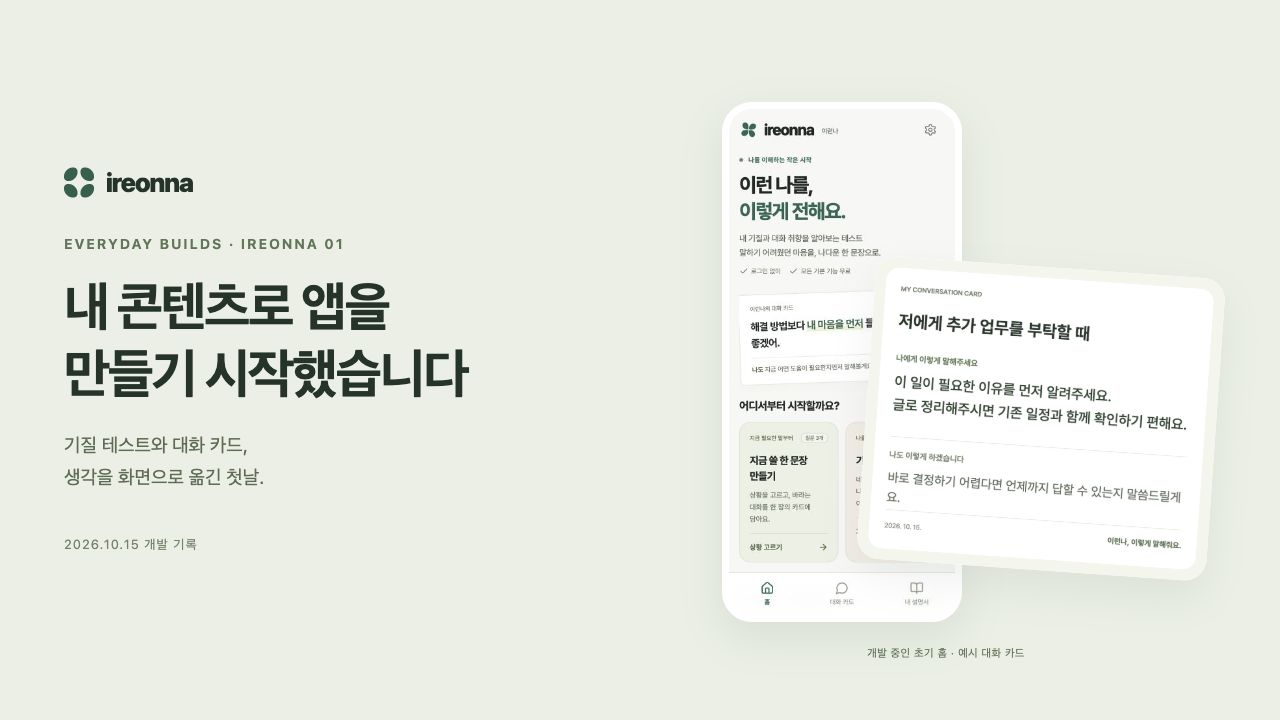
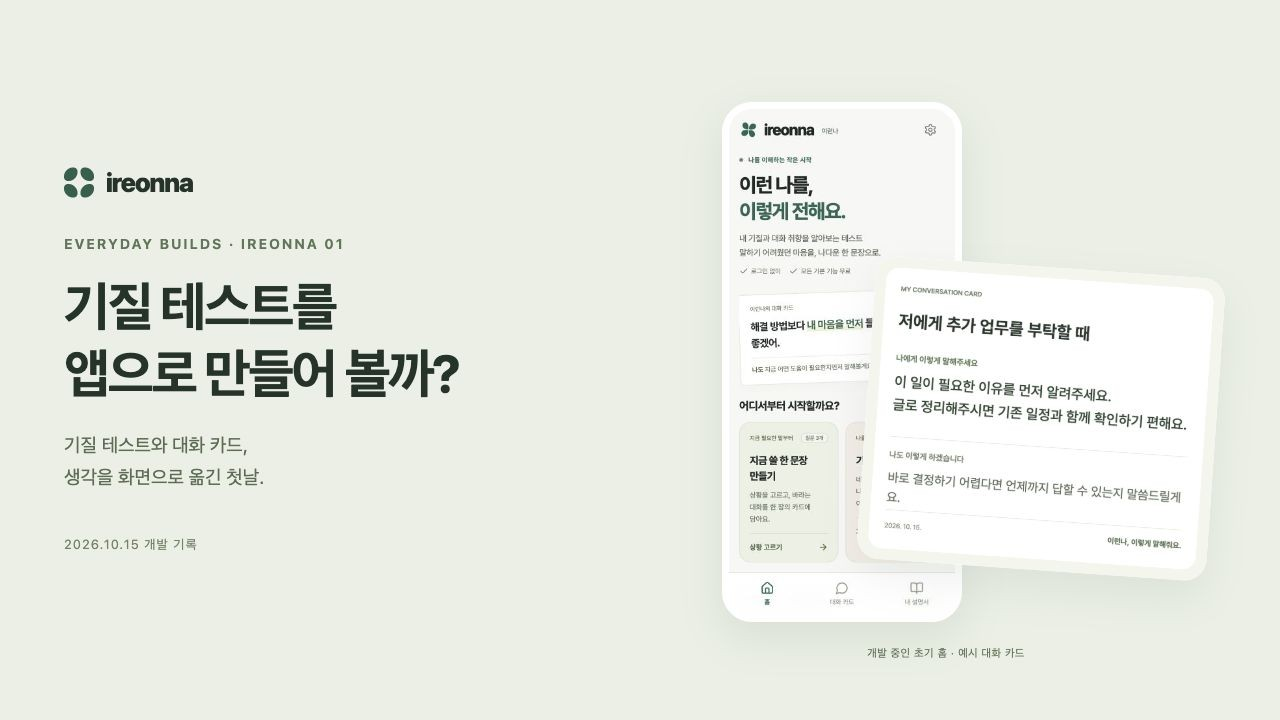
Refine Ireonna diary narrative and conversational tone

Changed region(s): [[0.0312, 0.4889, 0.375, 0.55], [0.0312, 0.3972, 0.3125, 0.4583]]

diff --git a/lib/posts.ts b/lib/posts.ts
@@ -87,17 +87,17 @@ export const posts: Post[] = [{
     en: { src: "/images/ireonna-build-log/en/03-cover.jpg", width: 1280, height: 720, alt: "English reading copies of Ireonna’s early Korean home screen and example conversation card" },
   },
   ko: {
-    title: "이런나 개발기 01: 내 콘텐츠로 앱을 만들기 시작했습니다",
+    title: "이런나 개발기 01: AI와 기질 테스트 앱을 만들기 시작했습니다",
     seoTitle: "앱인토스 개발기: Codex로 시작한 기질 테스트 앱 이런나",
-    excerpt: "이번에는 가지고 있던 기질 테스트와 강의 자료를 앱으로 옮겨 보기로 했습니다. Codex에 기획 문서를 건네고, 나온 화면을 눌러 보며 설명과 문장을 다시 살펴본 이런나 개발기 첫 편입니다.",
-    summary: "기질 테스트와 강의 자료를 Codex에 건넸습니다. 초기 화면을 눌러 보며, 제가 붙인 기질 이름과 대화 문장도 다시 읽었습니다.",
+    excerpt: "앱인토스가 뭔지 몰라 AI에게 물어봤습니다. 가이드 링크를 보내고 뭘 만들면 좋을지 의논하다가, 기질 테스트 앱의 첫 화면까지 만들었습니다.",
+    summary: "앱인토스가 뭔지도 몰랐습니다. AI에게 가이드 링크를 보내고 뭘 만들면 좋을지 물어보다가, 기질 테스트 앱을 만들기 시작했습니다.",
     category: "앱 개발",
   },
   en: {
-    title: "Ireonna build diary 01: turning my own content into an app",
+    title: "Ireonna build diary 01: starting a temperament test app with AI",
     seoTitle: "Building an app for Apps in Toss with Codex: Ireonna 01",
-    excerpt: "This time, I used my existing temperament test and class materials to plan an app for Apps in Toss. Here’s what happened when I gave Codex the plan, tried the screens, and read my own wording again.",
-    summary: "I gave Codex a plan based on my own materials, then tried the screens it made. I ended up revisiting my own wording, too.",
+    excerpt: "I didn’t know what Apps in Toss was, so I asked AI. I sent it the guide, talked through what I could make, and ended up trying the first screens of a temperament test app.",
+    summary: "I didn’t even know what Apps in Toss was. I sent AI the guide, asked what I could make, and started building a temperament test app.",
     category: "Building an app",
   },
 }];

diff --git a/content/posts/ireonna-build-log/ko.md b/content/posts/ireonna-build-log/ko.md
@@ -1,67 +1,77 @@
-# 이런나 개발기 01: 내 콘텐츠로 앱을 만들기 시작했습니다
+# 이런나 개발기 01: AI와 기질 테스트 앱을 만들기 시작했습니다
 
 **개발일 2026.10.15 · 기록일 2026.10.16**
 
-“내 콘텐츠로 토스 안에서 쓰는 앱을 만들어볼까?”
+처음엔 앱인토스가 뭔지도 몰랐습니다. 그래서 AI에게 물어봤습니다.
 
-앞의 [카페 교육 게임](/ko/builds/cafe-first-day)과 [물건 찾기 지도](/ko/builds/where-was-it)는 HTML 파일 하나로 실행하는 도구였습니다. 이번에는 제가 가지고 있던 기질 테스트와 강의 자료를 앱으로 옮겨 보기로 했습니다.
+앞에서는 [카페 교육 게임](/ko/builds/cafe-first-day)과 [물건 찾기 지도](/ko/builds/where-was-it)를 HTML 파일로 만들어 봤죠. 이번에는 다른 사람들도 써 볼 수 있게 올려 보고 싶었습니다. 제가 만든 걸로 돈도 벌어 볼 수 있을까 궁금했고요.
 
-토스 안에서 서비스를 선보일 수 있는 앱인토스를 알아봤고, 만들 앱의 이름은 ‘**이런나**’로 정했습니다. 이번에는 만들 내용을 기획 문서로 정리해서 AI에게 건넸습니다. [앱인토스 공식 개발 문서](https://developers-apps-in-toss.toss.im/)
+무엇을 만들지는 아직 정하지 않았습니다. 어디에 올릴 수 있는지, 거기서 제가 뭘 해 볼 수 있는지부터 AI와 알아보기로 했습니다.
 
-## 가지고 있던 자료부터 꺼냈습니다
+## 우선, 앱인토스가 뭔지부터 물어봤습니다
 
-꺼낸 자료는 전에 만들었던 기질 테스트(MyEnergyType)와 자기이해 강의 자료입니다. 어떤 상황에서 힘이 나는지, 다른 사람과 이야기할 때 무엇을 편하게 느끼는지 살펴보는 내용입니다.
+알아보니 [앱인토스](https://toss.im/apps-in-toss)를 이용하면 제가 만든 앱을 토스 안에 올려 다른 사람들이 써 보게 할 수 있더군요.
 
-결과를 읽고 “아, 내가 이렇구나” 하는 데서 한 걸음 더 가 보고 싶었습니다. 알게 된 내용을 실제로 말할 때도 써 볼 수 있으면 좋겠더군요.
+앱에 [유료 기능을 넣거나](https://developers-apps-in-toss.toss.im/guide/monetization/in-app-payment), [광고를 붙이는](https://developers-apps-in-toss.toss.im/guide/monetization/in-app-ad) 방법도 안내돼 있었습니다. 직접 만든 걸로 돈을 벌어 볼 방법도 있구나 싶었습니다.
 
-예를 들면 추가 업무를 부탁받은 상황입니다. 지금 맡은 일도 있는데 새 부탁이 들어왔습니다. “언제까지 필요한지 알려주시면 지금 일정과 함께 확인할게요” 같은 말을 내 상황에 맞게 정리해 볼 수 있도록요.
+[만드는 방법을 설명한 가이드](https://developers-apps-in-toss.toss.im/)도 찾았습니다. 링크를 AI에게 보내 읽어 보게 하고, 제가 시작해 볼 만한 앱을 추천해 달라고 했습니다. 그때 물어본 내용을 짧게 정리하면 이렇습니다.
 
-그래서 기질 테스트에 **나에게 필요한 말을 문장으로 적어 보는 대화 카드**를 붙이기로 했습니다. 마음속에서는 제법 길게 설명했는데 입 밖으로는 “아, 네…”만 나오는 순간을 떠올렸습니다.
+> 이 앱인토스 개발 가이드를 읽고, 여기서 어떤 앱을 만들 수 있는지 알려줘. 내가 작게 시작해 볼 만한 아이디어도 추천해줘.
 
-## 이번에는 기획 문서를 먼저 건넸습니다
+AI가 제안한 것들을 보다가 **기질 테스트**로 앱을 만들어 보기로 했습니다. 원래 사람마다 성향이 어떻게 다른지 알아보는 데 관심이 있었거든요. 이름은 ‘**이런나**’로 정했습니다.
 
-2026년 10월 15일, 만들 내용을 기획 문서(PRD)에 정리했습니다. 첫 화면에서 무엇을 고르고, 질문에 답하면 무엇이 나오는지 적었습니다. 가지고 있던 자료를 화면에서 어떻게 쓰고 싶은지부터 정리한 겁니다.
+테스트 결과를 보고 “아, 내가 이렇구나” 하고 끝나면 조금 아쉬울 것 같았습니다. 알게 된 걸 대화할 때도 써 볼 수 있으면 좋겠더군요.
 
-그 문서를 Codex라는 AI에 주고 개발을 부탁했습니다. 요청을 짧게 정리하면 이렇습니다.
+예를 들어, 하던 일도 많은데 추가 업무를 부탁받았을 때입니다. “언제까지 필요한지 알려주시면 지금 일정과 함께 확인할게요”처럼, 내가 할 말을 미리 적어 볼 수 있도록요.
+
+그래서 테스트에 **대화 카드**를 붙이기로 했습니다. 마음속에서는 제법 길게 설명했는데, 입 밖으로는 “아, 네…”만 나오는 순간을 떠올렸습니다.
+
+## 만들고 싶은 걸 적어서 AI에게 건넸습니다
+
+2026년 10월 15일, 만들고 싶은 앱의 모습을 글로 정리했습니다. 첫 화면에서는 뭘 누르게 할지, 질문에 답하면 어떤 결과가 나올지 적었습니다. 테스트를 하고 결과를 읽거나, 바로 쓸 말을 한 문장으로 만들어 볼 수 있게 하고 싶었습니다.
+
+그 글을 Codex라는 AI에게 주고 개발을 부탁했습니다. 요청을 짧게 정리하면 이렇습니다.
 
 > 이 기획 문서에 맞춰 앱인토스에 들어갈 앱을 만들어주세요.
 
-첫 화면에는 시작하는 방법을 두 가지로 뒀습니다. ‘**기질부터 알아보기**’를 누르면 40문항의 테스트로 들어갑니다. ‘**지금 쓸 한 문장 만들기**’에서는 상황을 고르고 대화 카드를 만듭니다.
+첫 화면에는 ‘**기질부터 알아보기**’와 ‘**지금 쓸 한 문장 만들기**’를 나란히 뒀습니다. 하나는 40문항의 테스트로, 다른 하나는 상황을 골라 대화 카드를 만드는 화면으로 이어집니다.
 
-저는 문장만 필요한 사람은 검사 없이 시작할 수 있게 했습니다. 부탁 하나 꺼내려고 들어왔는데, 입구에서 40문제부터 풀면 조금 난감하니까요.
+문장만 필요한 사람은 테스트를 건너뛸 수 있게 했습니다. 부탁 하나 꺼내려고 들어왔는데, 입구에서 40문제부터 풀면 조금 난감하니까요.
 
 ![2026년 10월 15일 초기 홈 화면. 예시 대화 카드 아래에 문장 만들기와 기질 알아보기 두 경로가 있다.](/images/ireonna-build-log/2026-10-15_01_home-initial.jpg)
 
 *2026.10.15 캡처 · 초기 홈 화면. “지금 쓸 한 문장 만들기”와 “기질부터 알아보기”를 나란히 배치했다.*
 
-화면이 만들어진 뒤에는 이렇게 부탁했습니다.
+이번엔 직접 눌러 보기 위해 이렇게 부탁했습니다.
 
 > 앱을 직접 확인할 수 있게 실행해서 브라우저로 열어줘요.
 
-시작 버튼을 찾고, 질문에 답하고, 다음 화면으로 넘어가 봤습니다. 문서로 읽을 때는 만들 기능을 생각했다면, 직접 눌러 볼 때는 지금 뭘 누르면 되는지와 화면에 나온 말이 이해되는지가 눈에 들어왔습니다.
+시작 버튼을 누르고, 질문에 답하고, 다음 화면으로 넘어가 봤습니다. 원하는 곳으로 잘 이어지는지, 안내 문장은 제가 읽어도 한 번에 이해되는지 살펴봤습니다.
 
-AI에게 기획 문서를 건넨 뒤에도 제가 읽고 판단할 내용은 남아 있었습니다. 일단 눌러 볼 버튼이 있다는 건 반가웠고요.
+앱을 만들어 달라고 했는데, 막상 화면이 생기니 그 안에 쓴 말도 다시 보게 되더군요. 버튼이 생겼다고 제 할 일이 끝나는 건 아니었습니다.
 
-## 카드에 나온 문장도 다시 읽었습니다
+## 카드에 적힌 말도 다시 읽어봤습니다
 
-대화 카드도 예시 상황을 넣어 확인했습니다. 질문에 답하면 문장이 나오고, 그 문장을 직접 고칠 수 있습니다. 추가 업무를 부탁받는 상황에서는 이런 카드가 만들어졌습니다.
+이번엔 추가 업무를 부탁받는 상황을 골라 대화 카드를 만들어 봤습니다. 질문에 답하면 문장이 나오고, 그 문장을 제가 고칠 수도 있습니다.
 
 ![추가 업무를 부탁할 때 필요한 정보와 내가 할 행동을 담은 초기 대화 카드 출력 예시](/images/ireonna-build-log/2026-10-15_02_conversation-card.png)
 
 *2026.10.15 앱에서 출력한 PNG · 예시 입력으로 만든 대화 카드. 상대에게 바라는 말 아래에 내가 할 행동도 담았다.*
 
-카드를 보면서 제가 중요하게 본 건 ‘**나도 이렇게 하겠습니다**’라는 부분이었습니다.
+카드에서 눈여겨본 건 아래쪽의 ‘**나도 이렇게 하겠습니다**’였습니다.
 
-위쪽에는 상대에게 바라는 말을, 아래쪽에는 제가 할 행동을 넣었습니다. 바로 답하기 어렵다면 언제까지 답할 수 있는지 알려주겠다는 내용입니다. 배려를 부탁하는 카드를 만들었는데 상대의 할 일만 늘어나면 조금 곤란하니까요.
+위에는 상대에게 부탁할 말을, 아래에는 제가 할 일을 넣었습니다. 바로 답하기 어렵다면 언제까지 답하겠다고 알려주는 식입니다. 배려를 부탁하는 카드를 만들었는데, 상대의 할 일만 늘어나면 조금 곤란하니까요.
 
-여기까지 확인한 건 문장이 화면과 카드에 나오는 것입니다. 실제로 말하기 어려운 순간에 이 카드를 꺼내 쓰게 될지는 아직 모릅니다. 그건 써 본 사람의 이야기가 있어야 알 수 있겠습니다.
+지금은 예시를 넣어 카드가 나오는 것까지 확인했습니다. 실제로 말하기 어려운 순간에도 이 카드를 꺼내 쓰게 될지는 더 두고 봐야겠습니다.
 
-## 기질 이름은 다시 손보기로 했습니다
+## 기질 이름은 한 번 더 고치기로 했습니다
 
-앱을 눌러 보면서 기질 이름도 다시 읽었습니다. 표현형, 추진형, 성찰형, 안정형. 쉽게 풀어 쓰려고 붙인 말인데, 제가 익숙하게 쓰는 말이라고 처음 보는 사람에게도 쉬운 건 아니겠더군요.
+앱을 눌러 보다가 기질 이름에서도 멈췄습니다. 표현형, 추진형, 성찰형, 안정형. 저는 무슨 뜻인지 알지만, 처음 보는 사람도 이름만 보고 바로 이해할 수 있을까 싶었습니다.
 
-그래서 이름 옆에 설명과 일상 예시를 더 붙여 보기로 했습니다. 그 이름과 설명을 어떻게 바꿨는지는 다음 글에 따로 남기겠습니다.
+이름 옆에 짧은 설명과 일상 예시를 더 붙여 보기로 했습니다. 어떻게 바꿨는지는 다음 글에서 이어가겠습니다.
 
-현재는 제 컴퓨터의 브라우저에서 실행하며 개발하는 단계입니다. 토스 앱에서 직접 열어보는 확인과 심사, 출시는 남아 있습니다. 글에 넣은 화면은 개발 중인 앱과 예시 자료입니다.
+이런나는 아직 제 컴퓨터에서 눌러 보는 중입니다. 토스 안에서 직접 실행해 보고, 심사를 받아 공개하는 일은 남아 있습니다. 이 글의 화면과 대화 카드도 개발 중에 예시를 넣어 만든 것입니다.
 
-이번에는 가지고 있던 자료를 정리해서 AI에게 건네고, 나온 화면을 눌러 보며 내용을 다시 읽었습니다. 앱을 만들어 달라고 했는데, 제가 써 둔 설명도 함께 고치게 됐습니다.
+돈을 벌 수 있을지는 더 해 봐야 알겠죠. 누가 써 줄지, 어떤 도움에 돈을 낼지는 아직 모르니까요.
+
+이번엔 앱인토스가 뭔지 알아보는 데서 시작해, 만들 것을 고르고 첫 화면까지 만들어 봤습니다. **“뭘 만들어 볼까?”부터 AI와 같이 이야기해도 되는 거였죠.**

diff --git a/content/posts/ireonna-build-log/en.md b/content/posts/ireonna-build-log/en.md
@@ -1,67 +1,77 @@
-# Ireonna build diary 01: turning my own content into an app
+# Ireonna build diary 01: starting a temperament test app with AI
 
 **Development: 15 October 2026 · Written: 16 October 2026**
 
-“What if I turned my own content into an app inside Toss?”
+At first, I didn’t even know what Apps in Toss was. So I asked AI.
 
-The [café training game](/en/builds/cafe-first-day) and [photo map](/en/builds/where-was-it) from my first two posts each run as a single HTML file. This time, I wanted to turn my existing temperament test and class materials into an app.
+I’d already made a [café training game](/en/builds/cafe-first-day) and a [photo map](/en/builds/where-was-it) as HTML files. This time, I wanted to put something out there for other people to try. I was also curious whether I could eventually make something worth paying for.
 
-I looked into Apps in Toss, a platform for offering services inside the Toss app, and called the app **Ireonna (이런나)**, a Korean name that loosely means “this is me.” For this project, I wrote a plan for what I wanted and gave it to AI. [Apps in Toss developer documentation](https://developers-apps-in-toss.toss.im/)
+I hadn’t decided what to build yet. I started by talking to AI about where I could put an app and what I might be able to make for it.
 
-## Starting with content I already had
+## First, what was Apps in Toss?
 
-I brought out the temperament test I’d made for MyEnergyType and materials from my self-understanding classes. They explore what gives us energy in different situations and what feels comfortable when talking with other people.
+It turned out that [Apps in Toss](https://toss.im/apps-in-toss) would let me put an app inside Toss, a Korean financial app, for other people to use.
 
-I wanted to take it a little further than reading a result and thinking, “That sounds like me.” Perhaps there was a way to use that understanding when finding the words to say something.
+There were also guides to [adding paid features](https://developers-apps-in-toss.toss.im/guide/monetization/in-app-payment) and [showing ads](https://developers-apps-in-toss.toss.im/guide/monetization/in-app-ad). So there was a way to try earning money from something I’d made, too.
 
-Take being asked to do extra work. There’s already a full schedule, and another request arrives. It might help to work on a sentence such as, “If you let me know when you need it, I’ll check it against my current schedule.”
+I found the [guide to building an app](https://developers-apps-in-toss.toss.im/). I sent AI the link, asked it to read it, and asked for app ideas I could start with. Here’s a short summary of what I asked:
 
-So I decided to add **conversation cards for putting what I need into words** alongside the test. I pictured those moments when I’ve composed a whole explanation in my head, but all that comes out is, “Oh. Sure…”
+> Read this Apps in Toss developer guide and explain what kinds of apps I could build here. Suggest some ideas I could start small with, too.
 
-## Giving Codex a plan this time
+After looking at the suggestions, I decided to try a **temperament test**. I’ve long been interested in how people’s temperaments differ. I called the app **Ireonna (이런나)**, a Korean name that loosely means “this is me.”
 
-On 15 October 2026, I wrote a planning document, or PRD. I set out what people could choose on the first screen and what would happen after they answered the questions. I started by working out how I wanted to use the material on screen.
+It seemed a shame to stop at reading a result and thinking, “That sounds like me.” I wanted to see if that understanding could be useful in a conversation, too.
 
-I gave that document to Codex, an AI coding assistant, and asked it to build the app. A short version of the request was:
+For example, someone asks me to take on more work when I already have plenty to do. I could work on what to say beforehand: “If you let me know when you need it, I’ll check it against my current schedule.”
+
+So I decided to add **conversation cards** alongside the test. I pictured those moments when I’ve composed a whole explanation in my head, but all that comes out is, “Oh. Sure…”
+
+## Writing down what I wanted AI to make
+
+On 15 October 2026, I wrote down what I wanted the app to look like: what someone could tap on the first screen and what they would see after answering the questions. I had two routes in mind—take the test and read a result, or work on a sentence they needed to say.
+
+I gave that plan to Codex, an AI coding assistant. A short version of my request was:
 
 > Please build an app for Apps in Toss based on this planning document.
 
-The home screen offered two ways to start. **Explore my temperament** led to a 40-question test. **Make a sentence for right now** let people choose a situation and make a conversation card.
+On the home screen, I put **Explore my temperament** beside **Make a sentence for right now**. The first led to the 40-question test. The second let people choose a situation and make a conversation card.
 
-I wanted people who only needed a sentence to be able to start without taking the test. Coming in to make one small request and finding 40 questions at the door would be a bit much.
+People who only needed a sentence could skip the test. Coming in to make one small request and finding 40 questions at the door would be a bit much.
 
 ![An English reading copy of the early Korean home screen, showing two ways to start](/images/ireonna-build-log/en/01-home-reading.jpg)
 
 *English reading copy of the Korean screen captured on 15 October 2026. The original placed “Make a sentence for right now” and “Explore my temperament” side by side. This translated reference was made for the post; the app itself is in Korean.*
 
-Once there was a screen to try, I asked:
+To try it myself, I asked:
 
 > Run the app and open it in a browser so I can try it myself.
 
-I found the start buttons, answered questions, and moved to the next screen. Writing the plan had meant thinking about the features I wanted. Clicking through the app made me look at what to press next and whether the words on screen made sense.
+I pressed the start buttons, answered the questions, and moved to the next screen. I checked whether things went where I expected and whether I could understand the instructions on the first read.
 
-Giving AI the plan still left me with things to read and decisions to make. It was good to have actual buttons to press, though.
+I’d asked for an app, but having screens to try made me look again at the words I’d put in them. Getting the buttons made hadn’t finished my part of the job.
 
-## Reading the words on the card
+## Reading what the card actually said
 
-I tried the conversation card with an example situation. Answering the questions produces wording that I can edit. The example for being asked to take on extra work produced this card.
+Next, I picked the example about being asked to take on extra work and made a conversation card. Answering the questions produces wording that I can then edit.
 
 ![An English reading copy of an example conversation card, with a request and a commitment from the speaker](/images/ireonna-build-log/en/02-conversation-card-reading.jpg)
 
 *English reading copy of a PNG exported by the Korean app on 15 October 2026, using example answers. Below the request is something the speaker will do as well. The original export is in Korean.*
 
-The part I paid particular attention to was **What I’ll do, too**.
+The part I paid attention to was **What I’ll do, too**, near the bottom.
 
-I put the request to the other person at the top and my own commitment underneath: if I can’t decide straight away, I’ll say when I can give an answer. A card asking for consideration would be a little awkward if it only created more work for the other person.
+At the top was what I wanted to ask the other person. Underneath was something I would do—for instance, say when I could give an answer if I couldn’t decide straight away. A card asking for consideration would be a little awkward if it only created more work for the other person.
 
-So far, I’ve checked that the words appear on screen and in the card. Whether people would reach for it during a difficult conversation is still an open question. That needs to come from people who have tried it.
+So far, I’ve checked that the example answers produce a card. Whether I’d actually reach for it when finding the words is difficult is something I still need to find out.
 
-## Deciding to revisit the temperament labels
+## Giving the temperament labels another look
 
-As I tried the app, I read the temperament labels again: 표현형, 추진형, 성찰형, 안정형—roughly Expressive, Driven, Reflective, and Steady. I’d chosen those words to make the ideas easier to understand. Being familiar to me didn’t necessarily make them clear to someone seeing them for the first time.
+As I tried the app, I paused at the temperament labels: 표현형, 추진형, 성찰형, 안정형—roughly Expressive, Driven, Reflective, and Steady. I knew what I meant by them. Would the names alone make sense to someone seeing them for the first time?
 
-I decided to add explanations and everyday examples beside the names. I’ll cover how I changed those labels and explanations in the next post.
+I decided to add short explanations and everyday examples beside them. I’ll cover those changes in the next post.
 
-I’m currently developing the app in a browser on my computer. Testing it inside the Toss app, review, and release are still ahead. The images in this post show a development version and example material.
+For now, I’m still trying Ireonna on my own computer. Testing it inside Toss and getting it reviewed and released are still ahead. The screens and cards in this post come from the development version, using example answers.
 
-This time, I organized material I already had, gave it to AI, and tried the screens that came back. I asked for an app and ended up revisiting my own explanations, too.
+Whether I can earn money from it is something I’ll have to find out. I don’t yet know who would use it or what they might find worth paying for.
+
+This time, I went from asking what Apps in Toss was to choosing an idea and trying the first screens. **“What could I make?” was a perfectly good place to start the conversation with AI.**

diff --git a/docs/ireonna-first-post-publication.md b/docs/ireonna-first-post-publication.md
@@ -41,3 +41,29 @@
 기능과 기획 의도를 설명하는 비중을 줄이고, 기존 두 도구 → 가지고 있던 자료 → 기획 문서를 Codex에 전달 → 나온 화면과 문장을 읽으며 판단 → 기질 이름을 다시 손보기로 한 흐름으로 바꿨다. PRD는 이번에 AI에게 건넨 자료로 짧게 설명했다. 뒤 편에서 다룰 기질 조합과 전통 명칭의 세부 설명은 덜어냈다.
 
 실제 인용 요청 두 개와 이미지·캡션, 개발일, 예시 입력 여부, 미출시 상태는 유지했다. 새 오류나 사용자 반응을 보태지 않았다. 한국어·영어 본문과 홈·검색용 요약을 같은 관점으로 맞췄으며 제목과 URL은 유지한다. 원고 개선을 실제 독자 반응이나 앱 효용 검증으로 해석하지 않는다.
+
+## 관심 있던 아이디어에서 시작하는 흐름으로 수정
+
+2026-10-16 사용자 요청에 따라 기존 테스트(MyEnergyType)와 강의 자료를 갖고 있었다는 소개를 공개 본문에서 덜어냈다. 평소 관심 있던 기질 테스트로 앱을 만들어 보자는 생각에서 시작하며, 모르는 부분은 AI와 대화하며 구체화하는 관점으로 한영 본문을 맞췄다. 기존 자료의 이력이나 실제 요청을 새로 만들어 쓰지는 않았다.
+
+이번 글에서 가져갈 포인트는 막연한 아이디어를 사람이 눌러 볼 순서와 받아 갈 결과로 풀어 AI에게 설명하고, 그 순서대로 나온 화면을 확인하는 것이다. 별도의 강의·팁 상자를 추가하지 않고 기획 문서와 브라우저 확인 장면, 마무리에 녹였다. 제목·홈/검색 요약·한영 표지도 같은 관점으로 수정했다. 기존 검색용 제목과 URL, 요청 인용 두 개, 본문 이미지·캡션, 미출시 안내는 유지한다.
+
+수정 전 원고·표지·제작 소스와 파생 이미지 기록은 `_보관/20261016-아이디어도입수정전/`에 보관했다. 후속 2·3편은 초안으로 유지한다. 이번 수정은 로컬 반영이며 커밋·푸시·배포는 하지 않는다.
+
+이번 수정 검증: 원본 요청 인용 두 개·본문 이미지와 캡션·네 개의 목차 앵커를 유지했고, 파생 이미지 해시와 후속 편의 초안 상태를 확인했다. `npm run build -- --webpack`과 로컬 `verify-seo.mjs`(한영 18개 페이지)를 통과했다. 브라우저에서 새 제목·도입·한영 전환·기획서 이전부터 AI와 아이디어를 정리할 수 있다는 문장을 확인했다.
+
+## 앱인토스 조사와 아이디어 상담부터 시작한 경위 반영
+
+2026-10-16 사용자가 앱인토스를 처음에는 몰랐으며 AI로 조사하고, 공식 홈페이지·개발 가이드 링크를 건네 읽어 보게 한 뒤 만들 아이디어를 물었다고 직접 설명했다. 이 경험을 도입과 1절에 반영했다. 구체적인 과거 추천 목록이나 답변 전문은 현재 보관 자료에서 확인하지 못했으므로 만들지 않았다. 새 질문 인용은 사용자 설명을 바탕으로 취지를 요약한 문장임을 한영 본문에서 표시했다. 기존의 개발 요청 두 개와 화면·예시 캡션은 유지한다. 이전 원고는 `_보관/20261016-앱인토스조사반영전/`에 남겼다.
+
+중심 포인트는 AI와의 대화를 조사·아이디어 선택 단계부터 시작할 수 있다는 점이다. 이전 원고의 ‘지금 다시 시작한다면’이라는 가정은 실제 경험 설명으로 대체했다. 공식 안내를 확인해 유료 기능·콘텐츠를 위한 인앱 결제와 광고를 소개하되, 이런나는 미출시이며 결제·광고 적용과 매출 검증은 하지 않았음을 구분했다. 수익 예상액·수수료·출시 소요 기간은 기재하지 않는다.
+
+확인한 공식 출처: [앱인토스](https://toss.im/apps-in-toss), [개발자 가이드](https://developers-apps-in-toss.toss.im/), [인앱 결제](https://developers-apps-in-toss.toss.im/guide/monetization/in-app-payment), [인앱 광고](https://developers-apps-in-toss.toss.im/guide/monetization/in-app-ad). 한영 제목과 표지는 기질 테스트 앱을 만들기 시작한다는 현재 내용과 맞으므로 유지하고, 본문·홈·검색 요약을 갱신했다. 2·3편 초안과 앱 원본은 수정하지 않으며 커밋·푸시·배포는 수행하지 않는다.
+
+이번 재작성 검증: 빌드(24개 정적 페이지 생성), 한영 18개 페이지의 검색·언어·이미지·피드 검증, 원본 요청·본문 이미지·캡션·날짜 보존 검사를 통과했다. 브라우저에서 한국어 조사 단락과 요약 요청문, 공식 수익화 링크, 영어판의 같은 관점과 미출시 안내를 확인했다.
+
+## 비개발자가 편하게 읽을 수 있도록 문장 전체 재편집
+
+2026-10-16 사용자가 플랫폼 소개처럼 딱딱한 어조와 같은 뜻을 반복하는 설명을 지적했다. 정의·기능 설명보다 알아보고 물어보고 눌러 본 행동으로 한영 본문을 다시 썼다. PRD 약어를 본문에서 덜고 ‘만들고 싶은 모습을 적은 기획 문서’로 설명했다. 소제목과 홈·검색용 요약도 같은 말투로 맞췄다. 교훈을 발표하듯 끝내던 문장은 ‘뭘 만들어 볼까부터 AI와 이야기해도 됐다’는 개인적인 소감으로 바꿨다. 사실·세 인용 요청·공식 링크·본문 이미지와 캡션·날짜·미출시 상태는 유지한다. 수정 전 원고는 `_보관/20261016-편한말투수정전/`에 있다.
+
+이번 문장 수정 검증: 원본 세 요청·두 이미지와 캡션·제목·링크·날짜를 대조해 유지했으며 후속 편은 초안 상태다. 빌드와 한영 18개 페이지 검증을 통과했다. 브라우저에서 첫 설명 단락·네 개의 소제목과 앵커·PRD 약어 제거·한영 전환을 확인했다. 커밋·푸시·배포는 하지 않았다.
